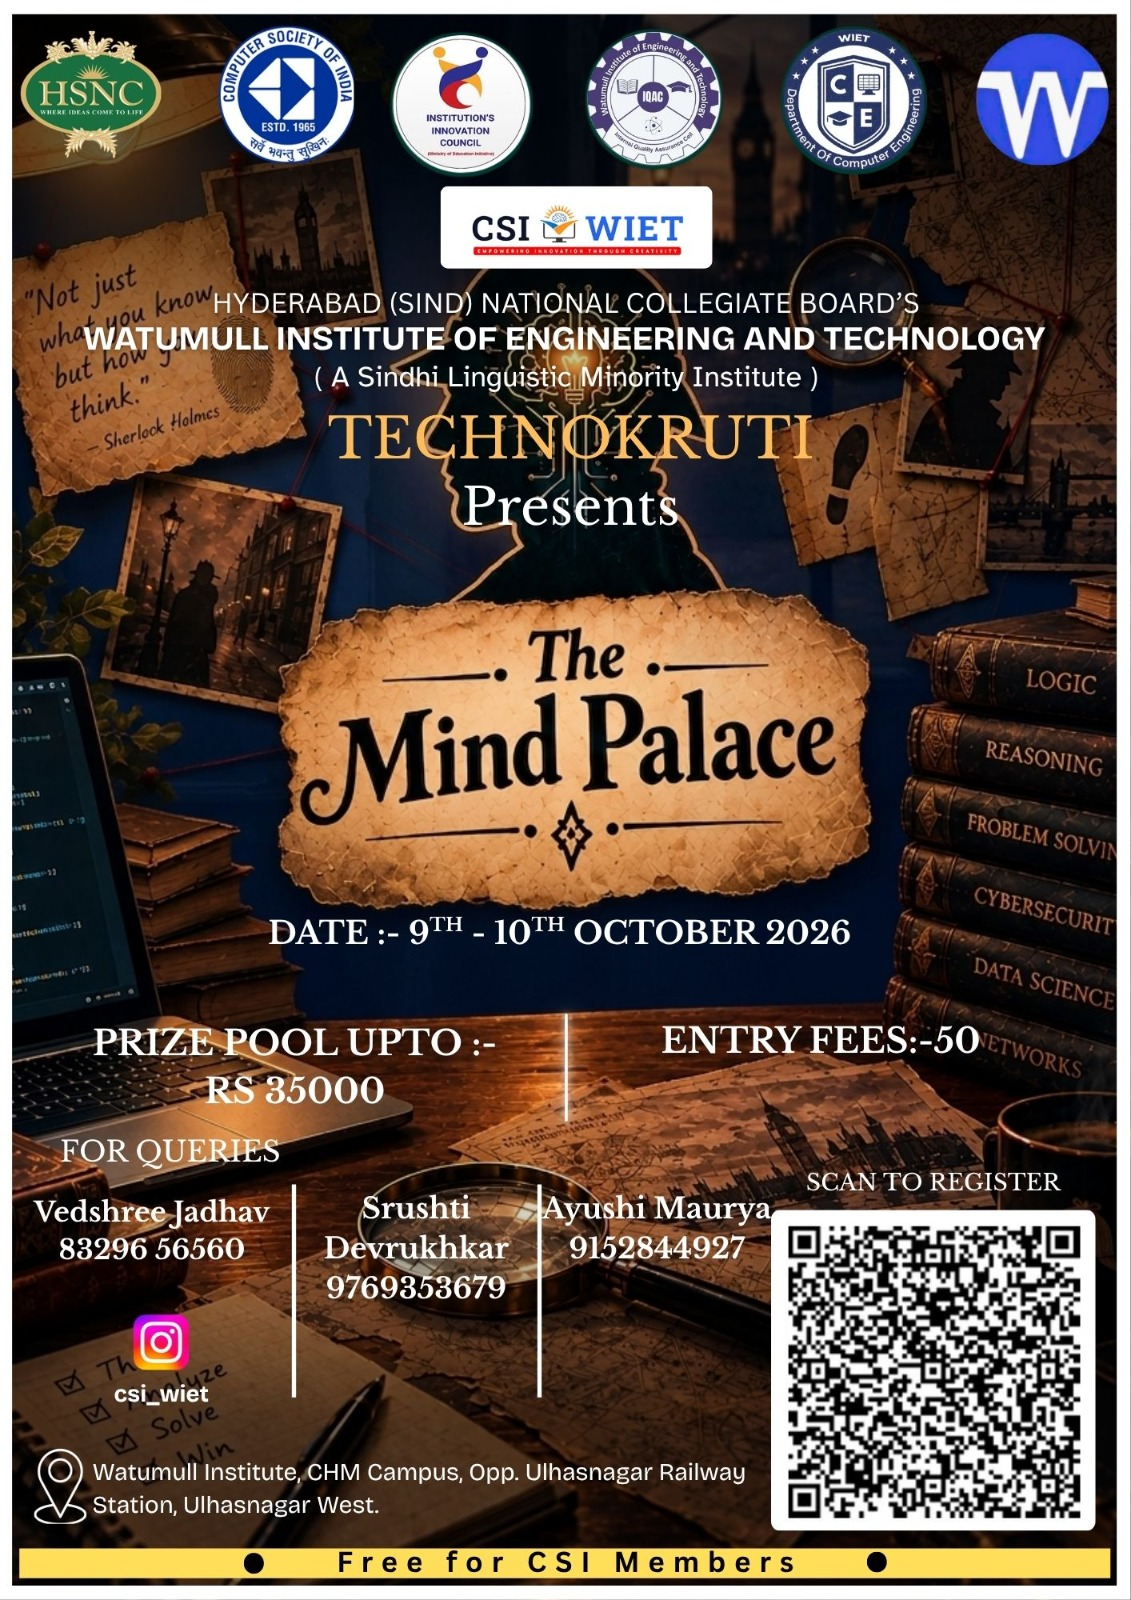
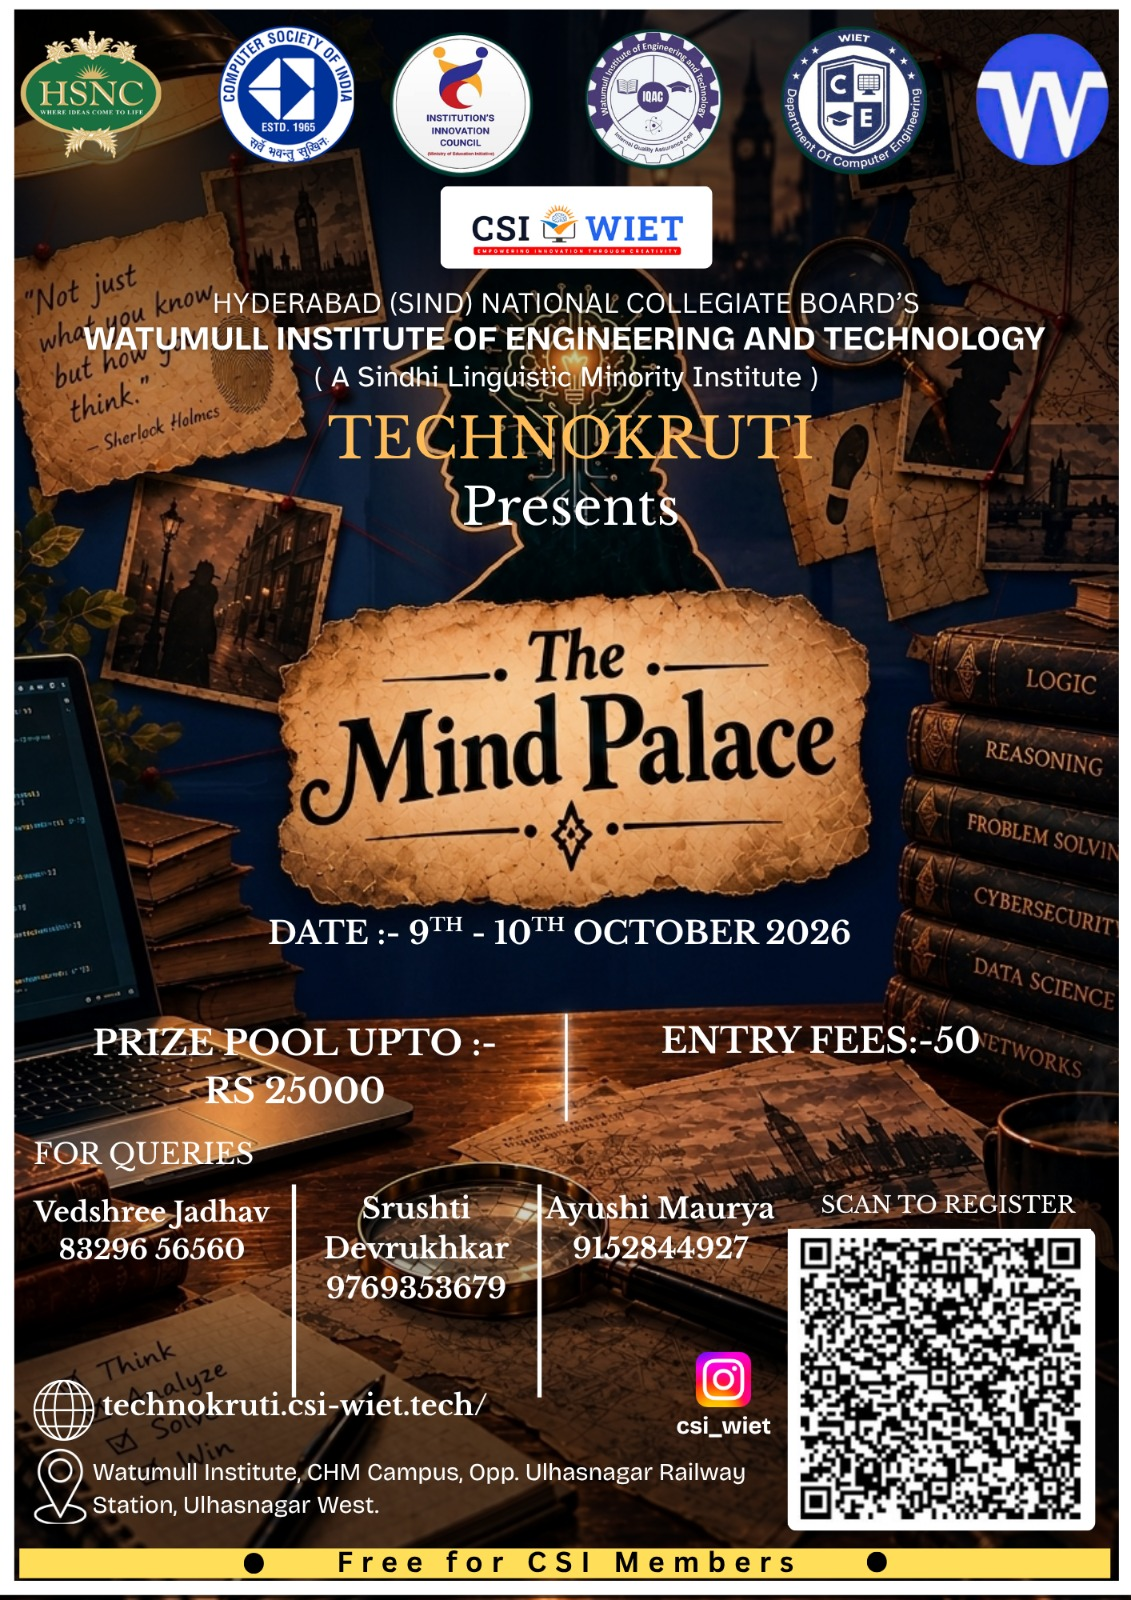
Update event images and site data

diff --git a/src/data/siteData.js b/src/data/siteData.js
@@ -68,9 +68,9 @@ export const EVENTS = [
     id: "ideathon",
     group: "inter-college",
     title: "Ideathon",
-    poster: "ideathon.jpg",
+    poster: "Ideathon.jpeg",
     date: "9–10 October 2026",
-    prizePool: "₹35,000",
+    prizePool: "₹25,000",
     entryFee: "Free for CSI members",
     coordinators: [
       { name: "Aarti Nipurte", phone: "7448087153" },
@@ -81,9 +81,9 @@ export const EVENTS = [
     id: "the-courtroom",
     group: "inter-college",
     title: "The Courtroom",
-    poster: "courtroom.jpg",
+    poster: "Courtroom.jpeg",
     date: "9–10 October 2026",
-    prizePool: "₹35,000",
+    prizePool: "₹25,000",
     entryFee: "₹200",
     coordinators: [
       { name: "Shrishti Pathak", phone: "9082897495" },
@@ -95,9 +95,9 @@ export const EVENTS = [
     id: "design-detective",
     group: "inter-college",
     title: "Design Detective",
-    poster: "design-detective.jpg",
+    poster: "Design Detective.jpeg",
     date: "9–10 October 2026",
-    prizePool: "₹35,000",
+    prizePool: "₹25,000",
     entryFee: "₹150",
     coordinators: [
       { name: "Soham Vaity", phone: "9321629301" },
@@ -112,9 +112,9 @@ export const EVENTS = [
     id: "crack-the-code",
     group: "intra-college",
     title: "Crack the Code",
-    poster: "crack-the-code.jpeg",
+    poster: "Crack the code.jpeg",
     date: "9–10 October 2026",
-    prizePool: "₹35,000",
+    prizePool: "₹25,000",
     entryFee: "₹150",
     registrationLink: "https://forms.gle/pRDDqmbo329NcCu26",
     coordinators: [
@@ -127,9 +127,9 @@ export const EVENTS = [
     id: "bug-detective",
     group: "intra-college",
     title: "Bug Detective",
-    poster: "bug-detective.jpg",
+    poster: "Bug detective.jpeg",
     date: "9–10 October 2026",
-    prizePool: "₹35,000",
+    prizePool: "₹25,000",
     entryFee: "₹150",
     registrationLink:
       "https://docs.google.com/forms/d/e/1FAIpQLSdnMvoep_bcFq57wtyXyNm27TBgUDGFrjZw7-6gjs4LmcYwrA/viewform?usp=header",
@@ -145,7 +145,7 @@ export const EVENTS = [
     title: "The Mind Palace",
     poster: "mind palace.jpeg",
     date: "9–10 October 2026",
-    prizePool: "₹35,000",
+    prizePool: "₹25,000",
     entryFee: "₹50",
     registrationLink:
       "https://docs.google.com/forms/d/e/1FAIpQLSfOLI_qv9q_znlF-7IZHdkyG0VwozHKQ0mK8GIhUEHi5OMYww/viewform?usp=publish-editor",
@@ -159,9 +159,9 @@ export const EVENTS = [
     id: "watson-test",
     group: "intra-college",
     title: "Watson Test",
-    poster: "watson-test.jpg",
+    poster: "Watson Test.jpg",
     date: "9–10 October 2026",
-    prizePool: "₹35,000",
+    prizePool: "₹25,000",
     entryFee: "₹50",
     registrationLink:
       "https://docs.google.com/forms/d/e/1FAIpQLSeIAC2Q4n6RjWd5v5ifJs3j3U3smi00aNi2alP1DlBfLVo63g/viewform?usp=publish-editor",
@@ -177,9 +177,9 @@ export const EVENTS = [
     id: "detectives-map",
     group: "fun-event",
     title: "The Detective's Map",
-    poster: "detectives-map.jpg",
+    poster: "detectives Map.jpeg",
     date: "9–10 October 2026",
-    prizePool: "₹35,000",
+    prizePool: "₹25,000",
     entryFee: "₹50",
     coordinators: [
       { name: "Atharva Shinde", phone: "9820523573" },
@@ -191,9 +191,9 @@ export const EVENTS = [
     id: "hear-the-clue",
     group: "fun-event",
     title: "Hear the Clue",
-    poster: "hear-the-clue.jpg",
+    poster: "hear clue.jpeg",
     date: "9–10 October 2026",
-    prizePool: "₹35,000",
+    prizePool: "₹25,000",
     entryFee: "₹20",
     coordinators: [
       { name: "Sakshi Gupta", phone: "9763332825" },
@@ -204,9 +204,9 @@ export const EVENTS = [
     id: "silent-clues",
     group: "fun-event",
     title: "Silent Clues",
-    poster: "silent-clues.jpg",
+    poster: "Silent Clues.jpeg",
     date: "9–10 October 2026",
-    prizePool: "₹35,000",
+    prizePool: "₹25,000",
     entryFee: "₹20",
     coordinators: [
       { name: "Tanvi Sagale", phone: "8369952040" },
@@ -217,9 +217,9 @@ export const EVENTS = [
     id: "missing-clue",
     group: "fun-event",
     title: "The Missing Clue",
-    poster: "missing-clue.jpg",
+    poster: "missing clue.jpg",
     date: "9–10 October 2026",
-    prizePool: "₹35,000",
+    prizePool: "₹25,000",
     entryFee: "₹200",
     coordinators: [
       { name: "Pranav Tiwari", phone: "8452973171" },
